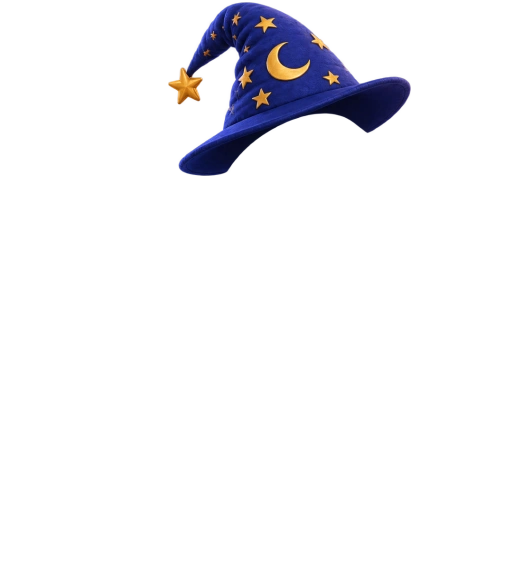
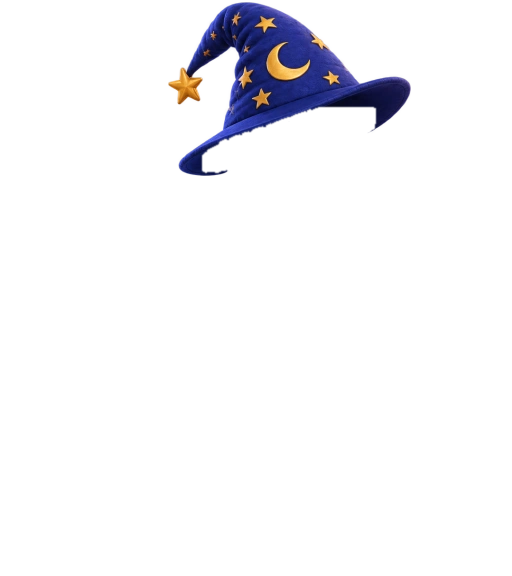
fix: carve dark inner cavities of hats 01/04/07/15/16/17/18 so head sits inside

Changed region(s): [[0.5312, 0.1562, 0.75, 0.25], [0.375, 0.2188, 0.5312, 0.3125]]

diff --git a/src/ui.tsx b/src/ui.tsx
@@ -123,7 +123,7 @@ export const PIGEON_SKIN_COLORS: Record<string, string> = {
   "iridescent-oil-slick": "#5e5a67", "skin-18": "#5e5a67", "18": "#5e5a67",
 };
 
-const ASSET_V = "?v=26";
+const ASSET_V = "?v=27";
 
 export function resolveSkinSrc(skin?: string | null): string {
   if (!skin || skin === "common" || skin === "default") {

diff --git a/scripts/build-pigeon-assets.py b/scripts/build-pigeon-assets.py
@@ -590,23 +590,42 @@ def build_standalone_hats_assets(session, ref_rgba: np.ndarray | None = None):
                 if dx1 > dx0 and dy1 > dy0:
                     canvas[dy0:dy1, dx0:dx1] = resized[sy0:sy0 + (dy1 - dy0), sx0:sx0 + (dx1 - dx0)]
 
-                # Для шапок с глубоким тёмным внутренним отверстием (панама 01, ушанка 04, авиатор 18)
-                # вырезаем тёмную внутреннюю полость там, где она перекрывает голову эталона
-                if ref_head_pad is not None and item_idx in (1, 4, 18):
-                    hys = np.where(canvas[:, :, 3] > 20)[0]
+                # Для шапок с глубокой тёмной внутренней полостью вырезаем тёмный "вход" внутри нижней-центральной части шапки,
+                # чтобы голова голубя заходила внутрь шапки независимо от смещения X/Y
+                CAVITY_THRESH: dict[int, tuple[float, int]] = {
+                    1: (0.60, 30),   # Чёрная панама
+                    4: (0.48, 54),   # Ушанка (серая тень между ушами)
+                    7: (0.62, 30),   # Шляпа волшебника
+                    15: (0.62, 32),  # Пиратская треуголка
+                    16: (0.60, 56),  # Панама-лягушка (тёмно-зелёная изнанка под полями)
+                    17: (0.58, 45),  # Колпак шута
+                    18: (0.46, 52),  # Шлем авиатора (тёмная полость внутри шлема)
+                }
+                if item_idx in CAVITY_THRESH:
+                    y_frac, thresh = CAVITY_THRESH[item_idx]
+                    hys, hxs = np.where(canvas[:, :, 3] > 20)
                     if len(hys) > 0:
-                        y_mid = int(hys.min() + (hys.max() - hys.min()) * 0.58)
+                        y_mid = int(hys.min() + (hys.max() - hys.min()) * y_frac)
+                        hw = hxs.max() - hxs.min()
+                        x_lo = int(hxs.min() + hw * 0.15)
+                        x_hi = int(hxs.max() - hw * 0.15)
                         y_grid = np.arange(hat_size[1])[:, None]
+                        x_grid = np.arange(hat_size[0])[None, :]
                         bright = canvas[:, :, :3].mean(axis=2)
-                        thresh = 28 if item_idx == 1 else 32
-                        interior = ref_head_pad & (bright < thresh) & (y_grid >= y_mid) & (canvas[:, :, 3] > 20)
+                        interior = (
+                            (bright < thresh)
+                            & (y_grid >= y_mid)
+                            & (x_grid >= x_lo)
+                            & (x_grid <= x_hi)
+                            & (canvas[:, :, 3] > 20)
+                        )
                         n_int, l_int, s_int, _ = cv2.connectedComponentsWithStats(interior.astype(np.uint8))
                         clean_int = np.zeros_like(interior)
                         if n_int > 1:
                             main_int = int(np.argmax(s_int[1:, cv2.CC_STAT_AREA]) + 1)
-                            if s_int[main_int, cv2.CC_STAT_AREA] >= 150:
+                            if s_int[main_int, cv2.CC_STAT_AREA] >= 120:
                                 clean_int = (l_int == main_int)
-                        clean_int = cv2.dilate(clean_int.astype(np.uint8), cv2.getStructuringElement(cv2.MORPH_ELLIPSE, (7, 7))) > 0
+                        clean_int = cv2.dilate(clean_int.astype(np.uint8), cv2.getStructuringElement(cv2.MORPH_ELLIPSE, (5, 5))) > 0
                         keep_mask = cv2.GaussianBlur((~clean_int).astype(np.float32), (3, 3), 0.7)
                         canvas[:, :, 3] = np.clip(canvas[:, :, 3].astype(np.float32) * keep_mask, 0, 255).astype(np.uint8)
 
